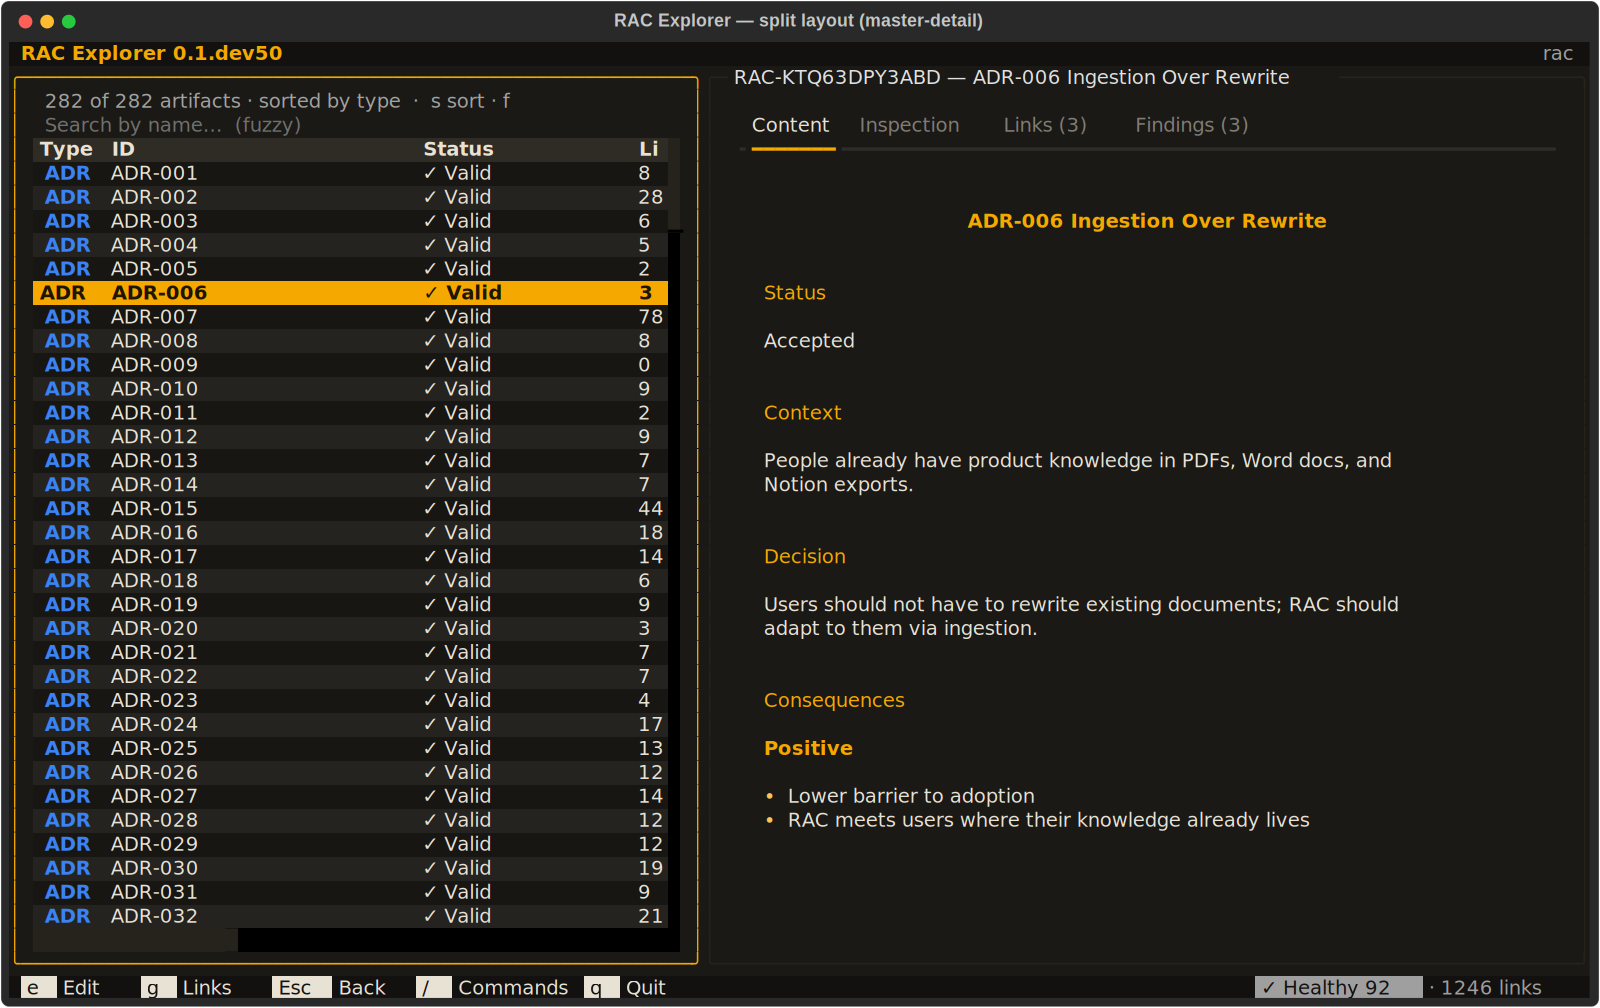
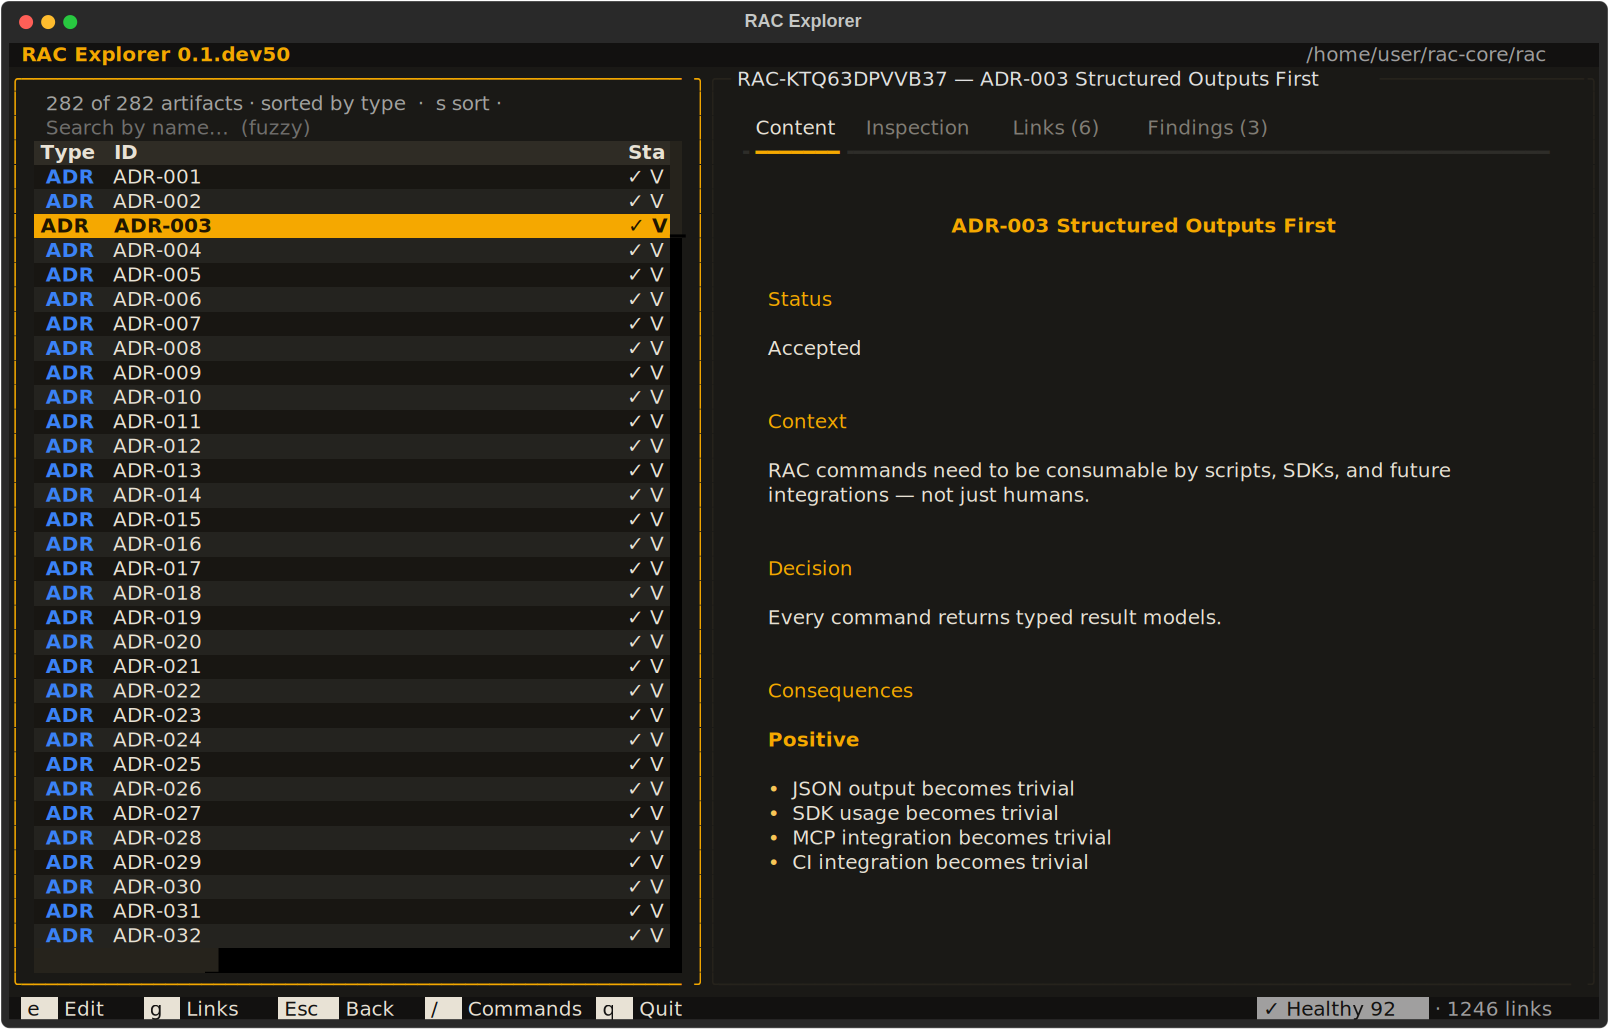
fix(explorer): auto-size the portfolio ID column [roadmap:v0.26.3]
Implements rac/roadmaps/v0.26.x-tui-revamp/v0.26.3-split-layout.md.

The ID column was pinned at a fixed 24-character width, so short
identifiers (ADR-006) left a wide gap and longer ones were truncated.
Auto-size it to the longest value in the column, like Title, and drop
the id-cell truncation. Refreshes the split-layout screenshot.

diff --git a/src/rac/explorer/widgets/views.py b/src/rac/explorer/widgets/views.py
@@ -911,17 +911,15 @@ class PortfolioView(Vertical):
 
     def on_mount(self) -> None:
         # Fixed widths for the scannable columns keep them tidy and aligned;
-        # Title is auto-sized last so full titles show (and the table scrolls
-        # horizontally if needed). Tune the widths here (v0.26.2).
+        # ID and Title are auto-sized so they fit the longest value in the
+        # column (the table scrolls horizontally if needed). Tune the fixed
+        # widths here (v0.26.2).
         table = self.query_one(DataTable)
-        for label, width in (
-            ("Type", 4),
-            ("ID", 24),
-            ("Status", 16),
-            ("Links", 6),
-            ("Recency", 8),
-        ):
-            table.add_column(label, width=width)
+        table.add_column("Type", width=4)
+        table.add_column("ID")  # auto-width: as wide as the longest id
+        table.add_column("Status", width=16)
+        table.add_column("Links", width=6)
+        table.add_column("Recency", width=8)
         table.add_column("Title")  # auto-width: as wide as the longest title
 
     def show_portfolio(
@@ -984,10 +982,9 @@ class PortfolioView(Vertical):
             tag, hue = type_tag(row.type, dark=dark)
             committed = self._recency.get(row.path)
             recency = relative_age(committed) if committed is not None else "·"
-            ident = row.id if len(row.id) <= 24 else row.id[:23] + "…"
             table.add_row(
                 Text(tag, style=f"bold {hue}"),
-                ident,
+                row.id,
                 row.status_label,
                 str(row.link_count),
                 recency,